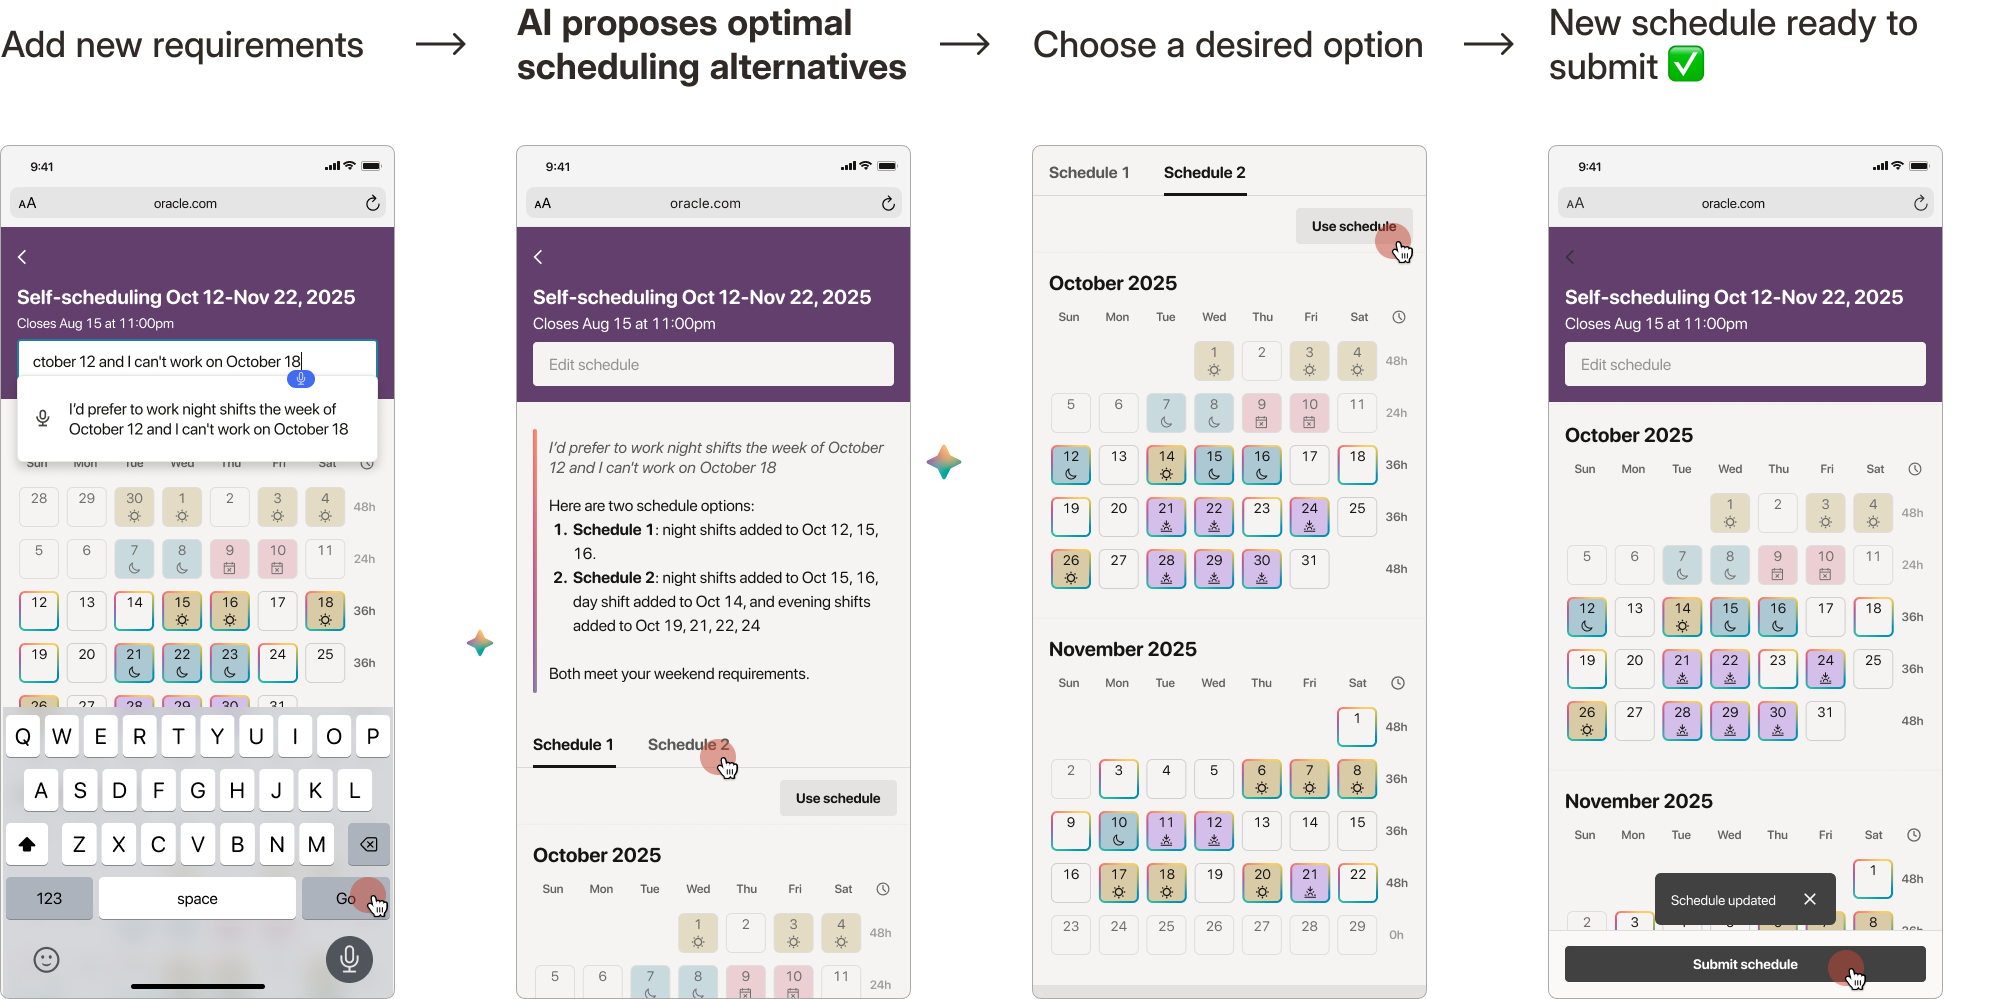
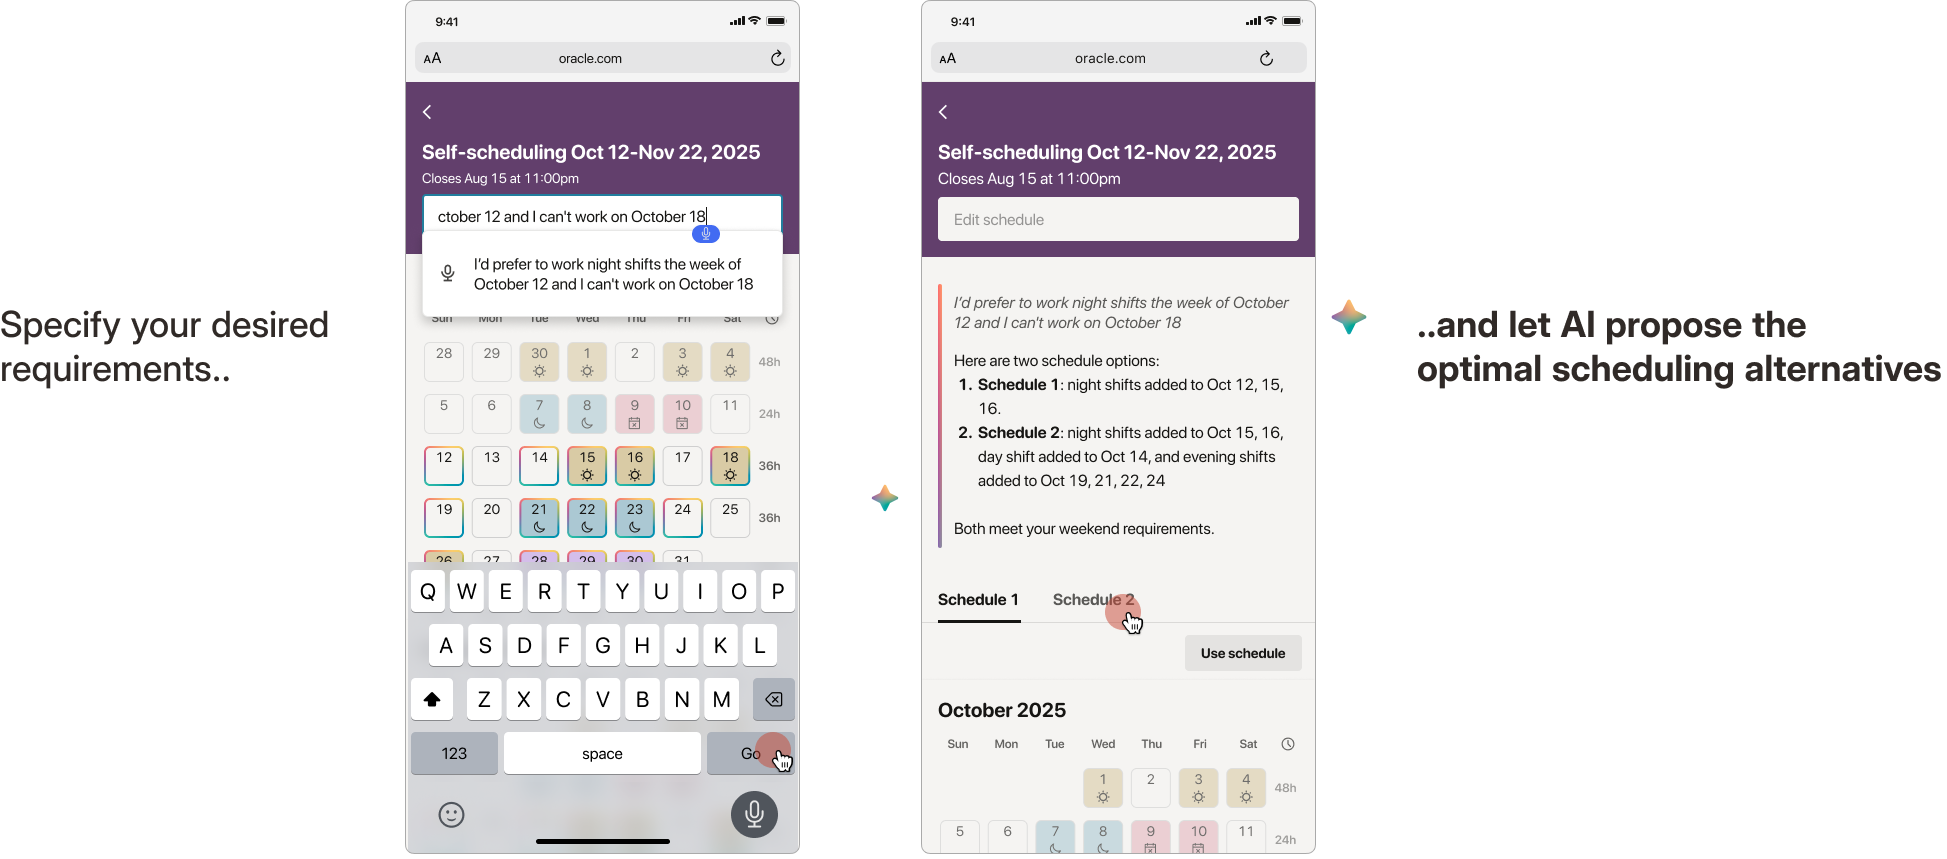
Swap the Oracle HCM prompting image for a two-screen flow that specifies requirements and shows AI alternatives.

diff --git a/src/app/oracle-hcm/page.tsx b/src/app/oracle-hcm/page.tsx
@@ -261,9 +261,9 @@ export default function OraclePage() {
 
         <CaseImage
           src="/images/oracle-ai-edits.png"
-          alt="Four phone screens showing a nurse adding new scheduling requirements, reviewing AI-proposed alternatives, choosing an option, and submitting an updated schedule"
-          width={1996}
-          height={999}
+          alt="Two phone screens showing a nurse specifying desired scheduling requirements and AI proposing optimal scheduling alternatives"
+          width={1947}
+          height={859}
           caption="Edit and generate alternate schedules by prompting"
           framed
           quality={100}
